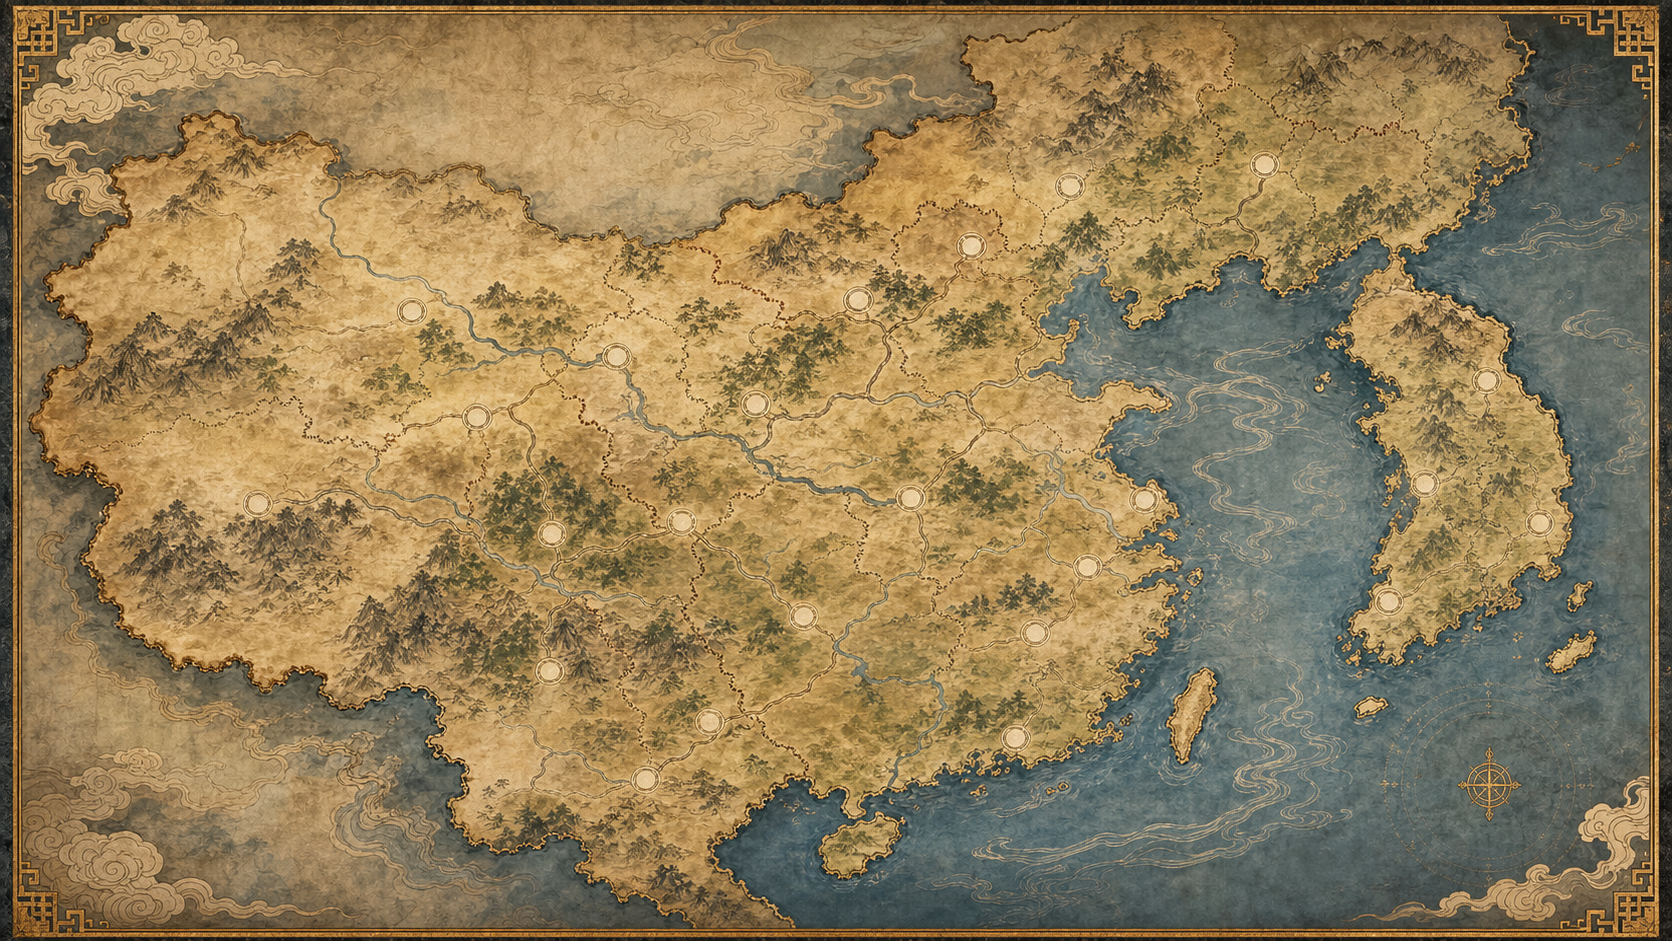
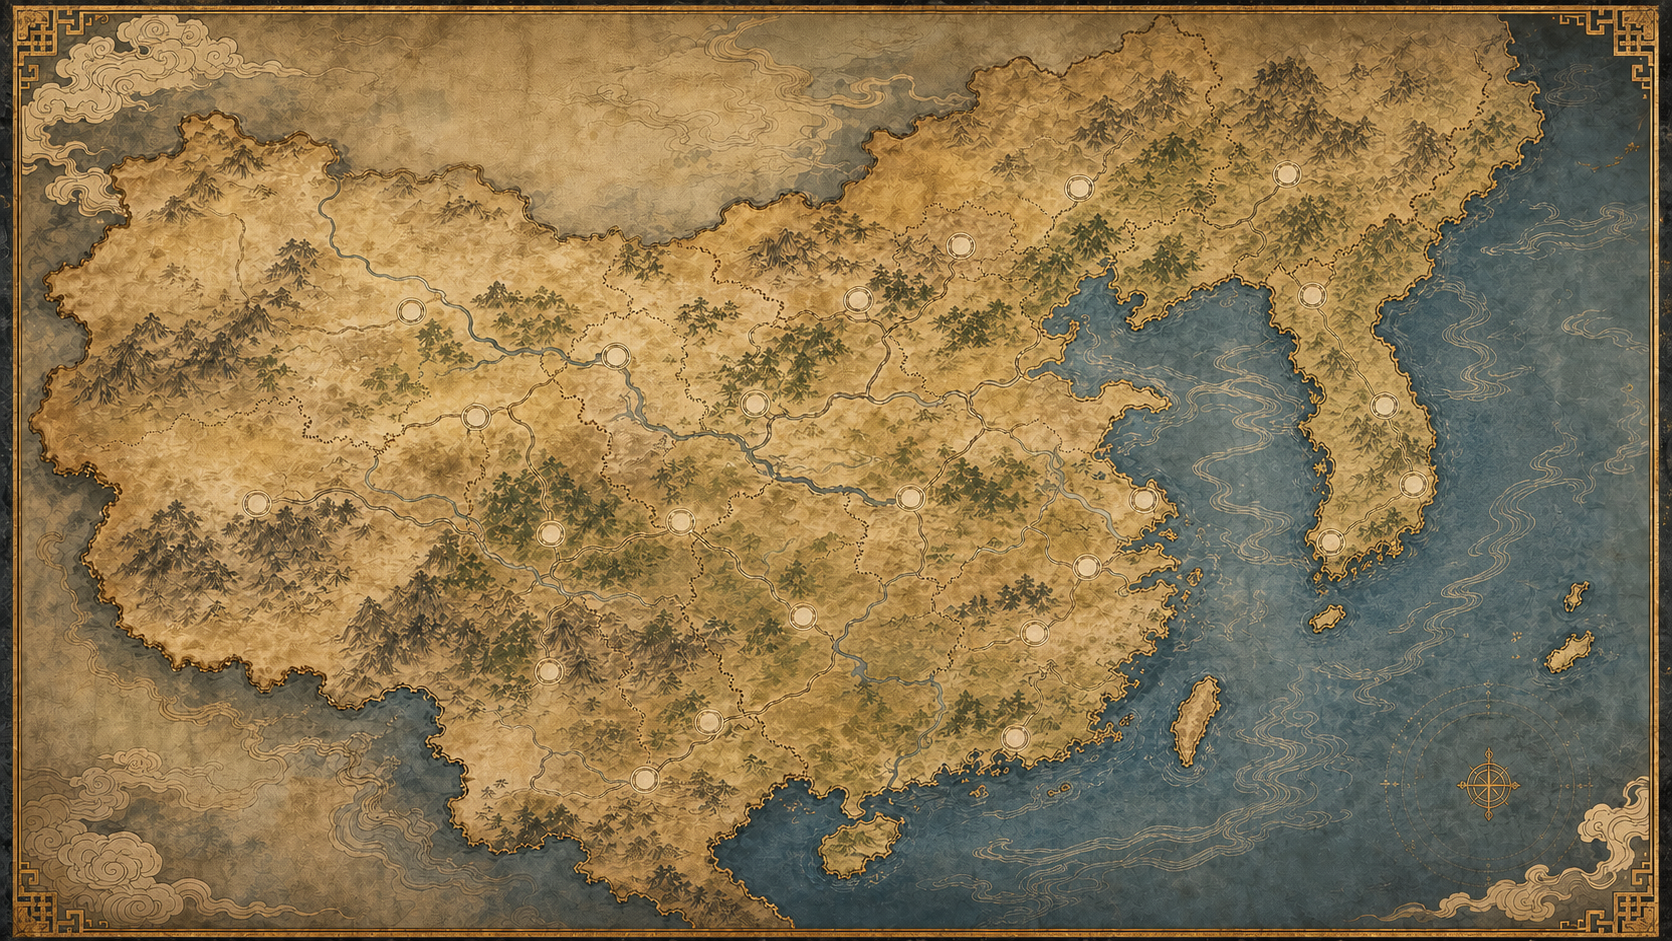
Connect Joseon peninsula on world map

diff --git a/UnityScaffold/Assets/JoseonMurimTactics/Scripts/UI/WorldMapController.cs b/UnityScaffold/Assets/JoseonMurimTactics/Scripts/UI/WorldMapController.cs
@@ -22,21 +22,21 @@ public sealed class WorldMapController : MonoBehaviour
     }
 
     private static readonly MapNode[] Nodes = {
-        new MapNode("백두천광검문", "박성준 · 빛/검", new Vector2(0.846f, 0.405f), "거점",
+        new MapNode("백두천광검문", "박성준 · 빛/검", new Vector2(0.785f, 0.300f), "거점",
                     "백두산 천지의 새벽빛을 검에 담는 문파. 꺼져가는 천광이 다시 타오르려 한다.", UiTheme.Gold),
-        new MapNode("설악창문", "백련 · 서리/창", new Vector2(0.852f, 0.563f), "영입 문파",
+        new MapNode("설악창문", "백련 · 서리/창", new Vector2(0.815f, 0.450f), "영입 문파",
                     "강원 설악산 자락의 창문. 차가운 창끝과 의원의 마음을 함께 지닌 백련의 본가.", UiTheme.NavyLight),
-        new MapNode("천뢰봉문", "진서율 · 전기/봉", new Vector2(0.815f, 0.612f), "영입 단서",
+        new MapNode("천뢰봉문", "진서율 · 전기/봉", new Vector2(0.795f, 0.505f), "영입 단서",
                     "경성의 봉술 문파. 천재 봉술가 진서율이 번개처럼 소문을 몰고 다닌다.", UiTheme.Teal),
-        new MapNode("흑련암문", "한비연 · 어둠/독", new Vector2(0.852f, 0.610f), "영입 단서",
+        new MapNode("흑련암문", "한비연 · 어둠/독", new Vector2(0.830f, 0.525f), "영입 단서",
                     "황해도 구월산의 암기 문파. 한비연의 그림자가 독살 누명의 단서를 쫓는다.", UiTheme.Navy),
-        new MapNode("화접풍류문", "신서아 · 바람/꽃/부채", new Vector2(0.798f, 0.686f), "영입 문파",
+        new MapNode("화접풍류문", "신서아 · 바람/꽃/부채", new Vector2(0.800f, 0.565f), "영입 문파",
                     "전라 남원 쪽 풍류 문파. 막내 신서아의 부채와 꽃바람이 연합의 숨통을 틔운다.", UiTheme.Teal),
-        new MapNode("화왕도문", "도아린 · 불/도", new Vector2(0.823f, 0.680f), "영입 문파",
+        new MapNode("화왕도문", "도아린 · 불/도", new Vector2(0.815f, 0.575f), "영입 문파",
                     "경상 화왕산의 도문. 도아린이 불길 같은 돌파력으로 길을 연다.", UiTheme.SealRed),
-        new MapNode("소백촌", "마을 신뢰", new Vector2(0.700f, 0.520f), "탐색 가능",
+        new MapNode("소백촌", "마을 신뢰", new Vector2(0.785f, 0.455f), "탐색 가능",
                     "백두천광검문 아래 마을. 생계, 복구, 신뢰가 1장의 중심이다.", UiTheme.Teal),
-        new MapNode("철랑문", "2장 적대 문파", new Vector2(0.675f, 0.565f), "위험",
+        new MapNode("철랑문", "2장 적대 문파", new Vector2(0.790f, 0.540f), "위험",
                     "백두산 영맥과 천광검문의 비급을 노리는 중원 하위 문파.", UiTheme.SealRed),
         new MapNode("모용세가 사절로", "3장 위협", new Vector2(0.535f, 0.610f), "잠김",
                     "후견을 명분으로 백두산에 손을 뻗는 오대세가의 길목.", UiTheme.Navy),
@@ -47,23 +47,23 @@ public sealed class WorldMapController : MonoBehaviour
     private static readonly MapLabel[] Labels = {
         new MapLabel("중원무림맹", "의협전 · 총단", new Vector2(0.535f, 0.395f), "盟", UiTheme.Gold, new Vector2(-92f, -62f), true),
 
-        new MapLabel("백두천광검문", "백두산 천검단", new Vector2(0.846f, 0.405f), "本", UiTheme.Gold, new Vector2(24f, -54f), false),
-        new MapLabel("설악창문", "설악빙창대", new Vector2(0.852f, 0.563f), "槍", UiTheme.NavyLight, new Vector2(-126f, -42f), false),
-        new MapLabel("천뢰봉문", "경성 번뢰전", new Vector2(0.815f, 0.612f), "雷", UiTheme.Teal, new Vector2(-126f, 6f), false),
-        new MapLabel("흑련암문", "구월산 흑련별원", new Vector2(0.852f, 0.610f), "毒", UiTheme.Navy, new Vector2(26f, -10f), false),
-        new MapLabel("화접풍류문", "남원 매화풍루", new Vector2(0.798f, 0.686f), "花", UiTheme.Teal, new Vector2(-118f, 10f), false),
-        new MapLabel("화왕도문", "화왕산 도장", new Vector2(0.823f, 0.680f), "火", UiTheme.SealRed, new Vector2(28f, 24f), false),
+        new MapLabel("백두천광검문", "백두산 천검단", new Vector2(0.785f, 0.300f), "本", UiTheme.Gold, new Vector2(24f, -54f), false),
+        new MapLabel("설악창문", "설악빙창대", new Vector2(0.815f, 0.450f), "槍", UiTheme.NavyLight, new Vector2(-126f, -42f), false),
+        new MapLabel("천뢰봉문", "경성 번뢰전", new Vector2(0.795f, 0.505f), "雷", UiTheme.Teal, new Vector2(-126f, 6f), false),
+        new MapLabel("흑련암문", "구월산 흑련별원", new Vector2(0.830f, 0.525f), "毒", UiTheme.Navy, new Vector2(26f, -10f), false),
+        new MapLabel("화접풍류문", "남원 매화풍루", new Vector2(0.800f, 0.565f), "花", UiTheme.Teal, new Vector2(-118f, 10f), false),
+        new MapLabel("화왕도문", "화왕산 도장", new Vector2(0.815f, 0.575f), "火", UiTheme.SealRed, new Vector2(28f, 24f), false),
     };
 
     private static readonly MapMonument[] Monuments = {
         new MapMonument(new Vector2(0.360f, 0.185f), "山", UiTheme.NavyLight, 1.0f),
         new MapMonument(new Vector2(0.535f, 0.395f), "盟", UiTheme.Gold, 1.15f),
-        new MapMonument(new Vector2(0.846f, 0.405f), "本", UiTheme.Gold, 1.05f),
-        new MapMonument(new Vector2(0.852f, 0.563f), "槍", UiTheme.NavyLight, 0.74f),
-        new MapMonument(new Vector2(0.815f, 0.612f), "雷", UiTheme.Teal, 0.74f),
-        new MapMonument(new Vector2(0.852f, 0.610f), "毒", UiTheme.Navy, 0.74f),
-        new MapMonument(new Vector2(0.798f, 0.686f), "花", UiTheme.Teal, 0.74f),
-        new MapMonument(new Vector2(0.823f, 0.680f), "火", UiTheme.SealRed, 0.74f),
+        new MapMonument(new Vector2(0.785f, 0.300f), "本", UiTheme.Gold, 1.05f),
+        new MapMonument(new Vector2(0.815f, 0.450f), "槍", UiTheme.NavyLight, 0.74f),
+        new MapMonument(new Vector2(0.795f, 0.505f), "雷", UiTheme.Teal, 0.74f),
+        new MapMonument(new Vector2(0.830f, 0.525f), "毒", UiTheme.Navy, 0.74f),
+        new MapMonument(new Vector2(0.800f, 0.565f), "花", UiTheme.Teal, 0.74f),
+        new MapMonument(new Vector2(0.815f, 0.575f), "火", UiTheme.SealRed, 0.74f),
     };
 
     private GameRoot root;